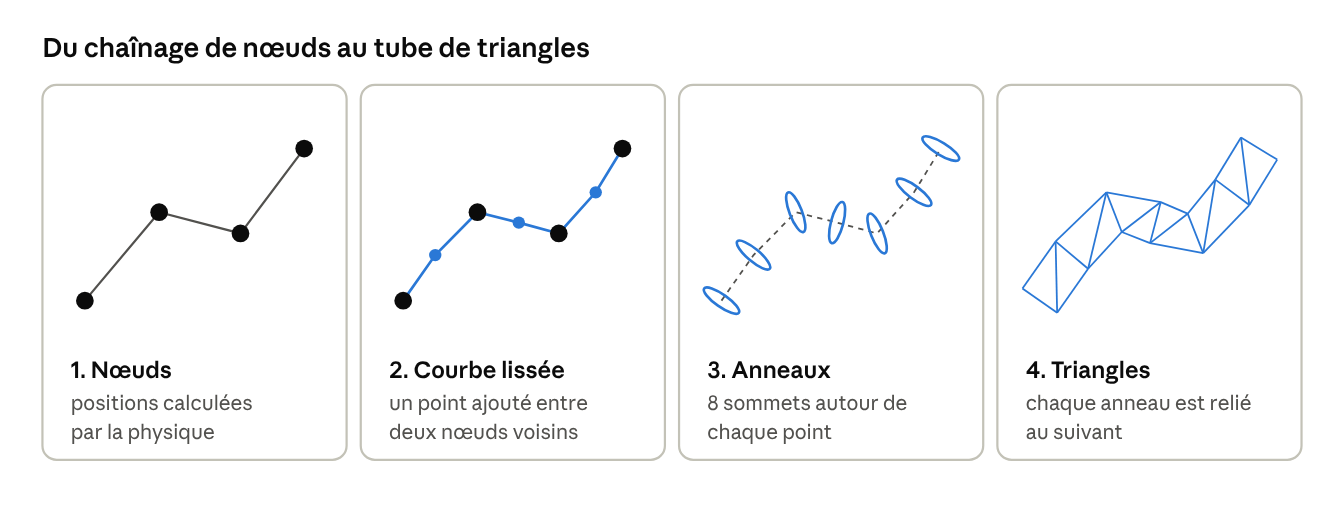
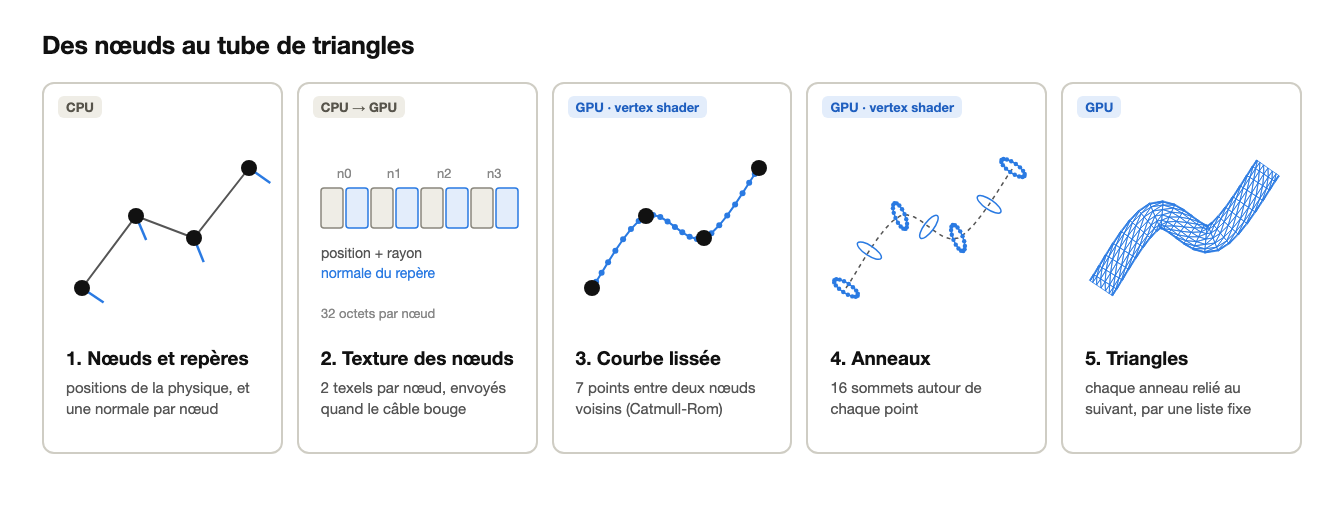
Docs : anatomie d'une frame, le tube des câbles calculé par le GPU
Le document décrit le rendu actuel des câbles : les repères des nœuds
sur le CPU, la texture des nœuds, le vertex shader (courbe, anneaux de
16 sommets), le tube allégé hors de l'image et les trois niveaux de
détail, l'injection `swept` et les matériaux substitués des passes.
Chiffres remesurés sur le niveau 4 (appels, triangles, chronologie).

Images : maillage en fil de fer refait, niveaux de détail (nouvelle),
schéma du tube refait (étapes CPU et GPU), « nœuds, matrices » dans la
vue d'ensemble.

diff --git a/docs/anatomie-d-une-frame.md b/docs/anatomie-d-une-frame.md
@@ -2,7 +2,7 @@
 
 ## Introduction
 
-Pour afficher une image, Brassage lit la souris, fait avancer la physique des câbles dans un Web Worker, reconstruit la géométrie des câbles qui ont bougé, puis demande à la carte graphique de dessiner la scène en plusieurs passes. Ce document décrit chacune de ces étapes, dans l'ordre où elles s'exécutent, avec les fichiers du dépôt qui les réalisent.
+Pour afficher une image, Brassage lit la souris, fait avancer la physique des câbles dans un Web Worker, envoie à la carte graphique les nœuds des câbles qui ont bougé, puis lui demande de dessiner la scène en plusieurs passes. Ce document décrit chacune de ces étapes, dans l'ordre où elles s'exécutent, avec les fichiers du dépôt qui les réalisent.
 
 Brassage est un jeu de rangement de câbles dans une baie réseau. Le rendu utilise [three.js](https://threejs.org/), une bibliothèque qui simplifie l'usage de WebGL. La physique des câbles est écrite pour le projet, dans `src/physics/cableSim.ts`, sans bibliothèque externe.
 
@@ -18,7 +18,7 @@ Dans Brassage, une frame se découpe en quatre étapes :
 
 1. **Entrées** : la position de la souris déplace la « main » qui tient un câble.
 2. **Physique** : le moteur calcule les nouvelles positions des câbles. Ce calcul tourne sur un autre fil d'exécution (un Web Worker), en parallèle du reste.
-3. **Préparation de la scène** : le processeur (le CPU) transforme les positions des câbles en triangles et envoie au GPU ce qui a changé.
+3. **Préparation de la scène** : le processeur (le CPU) envoie au GPU les positions des nœuds qui ont bougé ; le GPU en tire lui-même les triangles des câbles.
 4. **Rendu** : le GPU dessine la scène, puis applique une série de passes de post-traitement avant l'affichage.
 
 Le schéma ci-dessous montre qui fait quoi, et sur quel fil d'exécution.
@@ -356,7 +356,7 @@ La grosse pile dépasse le budget d'une frame : c'est précisément le cas que l
 
 ## Préparation de la scène
 
-Le GPU ne connaît ni les câbles ni les nœuds : il dessine des triangles à partir de tableaux de nombres stockés dans sa propre mémoire. Entre la physique et le dessin, le CPU convertit donc les positions des nœuds en triangles, place les connecteurs, et n'envoie au GPU que les données qui ont changé. Ce travail est fait par `src/render/cableView.ts` pour les câbles et `rackView.ts` pour la baie.
+Le GPU ne connaît ni les câbles ni les nœuds : il dessine des triangles à partir de tableaux de nombres stockés dans sa propre mémoire. Entre la physique et le dessin, le CPU envoie donc au GPU les positions des nœuds, place les connecteurs, et n'envoie que les données qui ont changé. Le *vertex shader* des câbles transforme ensuite les nœuds en triangles. Ce travail est fait par `src/render/cableView.ts` et `tube.ts` pour les câbles et `rackView.ts` pour la baie.
 
 ### Le graphe de scène
 
@@ -364,29 +364,47 @@ three.js organise ce qu'il faut dessiner en un arbre d'objets, comparable au DOM
 
 Dans un niveau, la scène contient la baie (`rackView.group`), les câbles (`cableView.group`), le guide qui montre la main, les lumières et un fond. Au moment des captures, cela faisait 83 meshes ordinaires et 10 meshes instanciés regroupant 266 instances.
 
-### Les câbles : un tube autour d'une courbe
+### Les câbles : un tube calculé par le GPU
 
-Tous les câbles d'un niveau sont dessinés par **un seul mesh**, dont les sommets sont rangés dans un seul grand tableau, câble après câble. Pour chaque câble qui a bougé, `buildTube()` :
+Tous les câbles d'un niveau sont dessinés par **un seul mesh**, dont les sommets sont rangés dans un seul grand tableau, câble après câble. Ce tableau ne change jamais. Un sommet ne porte pas sa position : il sait seulement sur quel tronçon de quel câble il se trouve, et à quelle place de son anneau. À chaque frame, le CPU envoie au GPU les nœuds des câbles qui ont bougé, et c'est le *vertex shader* (`src/render/tube.ts`) qui calcule où se trouve chaque sommet.
 
-1. **Lisse la chaîne de nœuds.** Entre deux nœuds, il ajoute un point intermédiaire sur une courbe de Catmull-Rom, qui passe par les nœuds et utilise leurs voisins pour s'incurver. Un câble de n nœuds donne 2(n − 1) + 1 points.
-2. **Calcule un repère en chaque point.** La tangente suit la courbe. La normale est celle du point précédent, projetée sur le plan perpendiculaire à la nouvelle tangente (transport parallèle). Recalculer la normale indépendamment en chaque point ferait tourner le tube sur lui-même et tordrait ses triangles.
-3. **Place un anneau de 8 sommets** autour de chaque point, au rayon du câble, avec pour chacun une normale qui pointe vers l'extérieur (utilisée pour l'éclairage).
+![Des nœuds au tube de triangles](frame/schema-tube.png)
 
-![buildTube() · de la physique aux triangles](frame/schema-tube.png)
+1. **Le CPU donne un repère à chaque nœud.** Pour placer un anneau autour du câble, il faut une direction perpendiculaire au câble, la *normale*. Celle d'un nœud est celle du nœud précédent, projetée sur le plan perpendiculaire à la nouvelle direction du câble (transport parallèle). Recalculer la normale indépendamment en chaque nœud ferait tourner le tube sur lui-même et tordrait ses triangles. Comme chaque normale dépend de la précédente, ce calcul se fait en séquence, sur le CPU, mais il ne coûte qu'un passage par nœud.
+2. **Il range les nœuds dans une texture.** Voir la section suivante.
+3. **Le vertex shader lisse la chaîne de nœuds.** Entre deux nœuds, il place 7 points sur une courbe de Catmull-Rom, qui passe par les nœuds et utilise leurs voisins pour s'incurver. Un câble de n nœuds donne 8(n − 1) + 1 anneaux. La direction du câble en un point est la dérivée de la courbe ; la normale est interpolée entre celles des deux nœuds voisins, puis redressée perpendiculairement à cette direction.
+4. **Il place l'anneau.** Chaque anneau a 16 sommets, au rayon du câble, chacun avec une normale qui pointe vers l'extérieur (utilisée pour l'éclairage).
+5. **Les triangles relient chaque anneau au suivant.** Leur liste est construite une fois, à la création du niveau.
 
-La liste des triangles, qui relie chaque anneau au suivant, ne change jamais : elle est construite une fois à la création du niveau. Seules les positions et les normales sont recalculées. Pour le niveau capturé : 10 568 sommets et 20 928 triangles pour l'ensemble des câbles.
+Ce dont le shader a besoin pour un sommet tient en trois nombres : l'indice du nœud où commence son tronçon plus la fraction du chemin vers le suivant (0, 1/8, 2/8…), et les indices du premier et du dernier nœud du câble. L'angle du sommet autour du câble se déduit de son numéro (`gl_VertexID`), puisque chaque anneau compte 16 sommets consécutifs. Ces trois nombres sont rangés dans l'attribut `normal` de la géométrie : sans attribut de ce nom, three.js conclurait que le maillage n'a pas de normales et l'éclairerait en facettes plates.
+
+Pour le niveau capturé : 83 920 sommets et 167 424 triangles pour l'ensemble des câbles.
 
 ![Maillage des câbles en fil de fer](frame/maillage.jpg)
 
-Les triangles des câbles, vus de très près. On distingue les anneaux de 8 sommets et les points intermédiaires ajoutés entre les nœuds. Le bout ouvert de chaque tube est caché par le connecteur.
+Les triangles des câbles, vus de très près : anneaux de 16 sommets, 8 anneaux entre deux nœuds. Les câbles du fond ont déjà moins de triangles (voir « Le coût des sommets » plus bas). Au centre, le bout ouvert d'un tube, caché en jeu par le connecteur.
 
-Un câble endormi n'est pas reconstruit. `update()` calcule une signature à partir de trois de ses nœuds et saute le câble si elle n'a pas changé.
+Un câble endormi n'est pas renvoyé. `update()` calcule une signature à partir de trois de ses nœuds et saute le câble si elle n'a pas changé.
 
-### N'envoyer au GPU que ce qui a changé
+### N'envoyer au GPU que les nœuds
 
-Les tableaux de sommets vivent en double : une copie en JavaScript (`Float32Array`) et une copie dans la mémoire du GPU (un *buffer*). Modifier la première ne change pas la seconde. Il faut marquer l'attribut `needsUpdate = true`, et three.js le recopie au prochain rendu.
+Les nœuds vivent en double : une copie en JavaScript (`Float32Array`) et une copie dans la mémoire du GPU, sous forme de texture (`TubeNodes`). Chaque nœud y occupe deux texels de quatre nombres : sa position et le rayon du câble, puis la normale de son repère. Un rayon nul cache le câble. Modifier la copie JavaScript ne change pas la texture : il faut la marquer `needsUpdate = true`, et three.js la recopie au prochain rendu.
 
-Recopier tout le tableau à chaque frame serait inutile quand un seul câble bouge. `cableView.ts` note le premier et le dernier sommet modifiés (`dirtyLo`, `dirtyHi`) et ne déclare que cette plage (`addUpdateRange`). three.js utilise alors l'appel WebGL `bufferSubData`, qui ne copie qu'une partie du buffer.
+Un nœud coûte 32 octets, quel que soit le nombre de sommets que le GPU en tire. La texture est recopiée en entier dès qu'un câble a bougé : 32 Ko pour les 667 nœuds du niveau capturé. Côté CPU, écrire les nœuds et leurs repères prend 1,3 ms par frame pour 1 200 câbles de 60 nœuds, tous en mouvement.
+
+### Le coût des sommets
+
+Les sommets ne coûtent presque rien au CPU, mais le GPU exécute le vertex shader pour chacun d'eux, dans chaque passe qui dessine les câbles : l'image, l'ombre, les normales des reflets, celles de l'occlusion ambiante et le masque des reflets. Un câble lointain ne fait pourtant que quelques pixels de large. Deux réglages évitent de dépenser ce travail là où il ne se voit pas.
+
+**Un tube allégé hors de l'image.** Seule l'image montre le contour et l'éclairage des câbles. Les quatre autres passes dessinent un sommet sur deux autour du câble et un anneau sur deux : une seconde liste de triangles, qui reprend les mêmes sommets, en référence quatre fois moins. `TubeMesh` choisit la liste avant chaque dessin (`onBeforeRender`, `onBeforeShadow`). Pour le niveau capturé, 41 856 triangles au lieu de 167 424 dans ces passes.
+
+**Un niveau de détail dans l'image.** Le vertex shader calcule le rayon du câble à l'écran, en pixels, à partir du premier nœud du tronçon. Sous 6 pixels, un sommet sur deux se replie sur son voisin, autour du câble et le long de lui ; sous 1,5 pixel, trois sur quatre. Les triangles repliés deviennent plats, et le GPU les élimine avant d'avoir un seul pixel à calculer. La liste des triangles ne change pas, donc le tube reste fermé : un sommet replié reste partagé par les mêmes triangles. Comme tous les sommets d'un tronçon lisent le même nœud pour décider, ils choisissent le même niveau.
+
+![Les trois niveaux de détail du tube](frame/niveaux-de-detail.jpg)
+
+La même vue avec le niveau de détail forcé, pour le rendre visible. De gauche à droite : 16 sommets par anneau et 8 anneaux d'un nœud au suivant, puis 8 et 4, puis 4 et 2. En jeu, les deux derniers ne servent que pour des câbles de moins de 6 et de 1,5 pixel de rayon, où leurs facettes ne se distinguent pas. Dans la vue par défaut du niveau capturé, un câble mesure environ 2,7 pixels de rayon : l'image en dessine donc la version 8 × 4.
+
+Sur l'écran d'accueil (5 baies remplies de câbles, environ 2 000 × 1 500 pixels), une frame prend 27 ms ; sans ces deux réglages, elle en prendrait 33.
 
 ### Les connecteurs : l'instanciation
 
@@ -394,7 +412,7 @@ Chaque câble a deux connecteurs, faits de quatre pièces : boîtier, loquet, ma
 
 Un **appel de dessin** (*draw call*) est l'ordre que le CPU envoie au GPU pour dessiner un objet : « dessine ce buffer avec ce programme et ces paramètres ». Chaque appel a un coût fixe côté CPU et pilote, quelle que soit la taille de l'objet. Mille petits objets coûtent bien plus cher qu'un gros objet de même nombre de triangles.
 
-Les connecteurs utilisent donc l'**instanciation** (`THREE.InstancedMesh`) : une seule géométrie de boîtier, dessinée en un seul appel autant de fois qu'il y a d'extrémités, chaque copie ayant sa propre matrice de position et sa propre couleur. `updateEnds()` calcule la matrice de chaque connecteur à partir des deux derniers nœuds du câble ; un connecteur branché pointe droit dans son port. Comme pour les tubes, seules les matrices qui ont changé sont renvoyées.
+Les connecteurs utilisent donc l'**instanciation** (`THREE.InstancedMesh`) : une seule géométrie de boîtier, dessinée en un seul appel autant de fois qu'il y a d'extrémités, chaque copie ayant sa propre matrice de position et sa propre couleur. `updateEnds()` calcule la matrice de chaque connecteur à partir des deux derniers nœuds du câble ; un connecteur branché pointe droit dans son port. Comme pour les nœuds des câbles, seules les matrices qui ont changé sont renvoyées.
 
 Pour les 13 câbles du niveau capturé, 26 extrémités × 4 pièces donneraient 104 appels de dessin sans instanciation. Avec, il en faut 8 : un par pièce et par type de connecteur (fibre ou cuivre).
 
@@ -429,17 +447,18 @@ Les voyants des équipements clignotent sans aucun calcul côté CPU. Chaque ins
 
 ### À retenir
 
-- Le CPU transforme les nœuds en un tube de triangles et n'envoie au GPU que les parties modifiées.
+- Le CPU n'envoie au GPU que les nœuds qui ont bougé ; le vertex shader en tire le tube de triangles.
+- Un câble n'a que les triangles que sa taille à l'écran justifie : un tube allégé hors de l'image, trois niveaux de détail dans l'image.
 - Moins d'appels de dessin, c'est moins de temps CPU : un seul mesh pour tous les câbles, des pièces fusionnées ou instanciées pour la baie.
 - Trois matrices (M, V, P) transforment une position 3D en position à l'écran.
 
 ## Le rendu de la scène sur le GPU
 
-Une fois les buffers à jour, `stage.render()` (`src/render/stage.ts`) lance le dessin. Pour chaque objet, le GPU exécute deux petits programmes, les shaders : l'un place les sommets à l'écran, l'autre calcule la couleur de chaque pixel en fonction des lumières et du matériau. Un rendu simple de la scène, sans post-traitement, coûte 85 appels de dessin et 190 874 triangles.
+Une fois les buffers à jour, `stage.render()` (`src/render/stage.ts`) lance le dessin. Pour chaque objet, le GPU exécute deux petits programmes, les shaders : l'un place les sommets à l'écran, l'autre calcule la couleur de chaque pixel en fonction des lumières et du matériau. Un rendu simple de la scène, sans post-traitement, coûte 89 appels de dessin et 505 938 triangles, dont 167 424 pour les câbles dans l'image et 41 856 dans leur ombre.
 
 ### Ce que fait le GPU pour un appel de dessin
 
-1. **Vertex shader.** Exécuté une fois par sommet, en parallèle. Il reçoit les attributs du sommet (position, normale, couleur…) et calcule sa position à l'écran avec les matrices P, V et M.
+1. **Vertex shader.** Exécuté une fois par sommet, en parallèle. Il reçoit les attributs du sommet (position, normale, couleur…) et calcule sa position à l'écran avec les matrices P, V et M. Pour les câbles, il calcule d'abord la position et la normale du sommet à partir des nœuds (voir « Les câbles : un tube calculé par le GPU »).
 2. **Rastérisation.** Le GPU détermine quels pixels chaque triangle recouvre. Chaque pixel couvert devient un *fragment*, et les valeurs des trois sommets sont interpolées pour lui.
 3. **Fragment shader.** Exécuté une fois par fragment, en parallèle. Il calcule la couleur : couleur de base, lumières, ombres, reflets.
 4. **Test de profondeur.** Le GPU garde pour chaque pixel la distance du fragment le plus proche déjà dessiné (le *depth buffer*). Un fragment plus lointain est jeté. C'est ce qui fait qu'un câble devant un port le cache, quel que soit l'ordre de dessin.
@@ -452,7 +471,7 @@ Les shaders sont écrits en GLSL, un langage proche du C. three.js les génère 
 
 Presque tout est dessiné avec `MeshStandardMaterial`, le matériau « physique » de three.js. Il décrit une surface par sa couleur, sa rugosité (`roughness`, de 0 pour un miroir à 1 pour une surface mate) et son caractère métallique (`metalness`). Son shader calcule la lumière réfléchie selon ces paramètres.
 
-Pour ajouter un comportement sans réécrire ce shader, le projet utilise `onBeforeCompile` : juste avant la compilation, three.js passe le code source GLSL à une fonction, qui le modifie par des remplacements de chaînes. three.js découpe son shader en blocs nommés (`#include <emissivemap_fragment>`, `#include <normal_fragment_maps>`…), ce qui donne des points d'insertion stables. Quatre extensions sont ainsi empilées :
+Pour ajouter un comportement sans réécrire ce shader, le projet utilise `onBeforeCompile` : juste avant la compilation, three.js passe le code source GLSL à une fonction, qui le modifie par des remplacements de chaînes. three.js découpe son shader en blocs nommés (`#include <emissivemap_fragment>`, `#include <normal_fragment_maps>`…), ce qui donne des points d'insertion stables. Cinq extensions sont ainsi empilées :
 
 | Fonction | Fichier | Code ajouté |
 | --- | --- | --- |
@@ -460,6 +479,7 @@ Pour ajouter un comportement sans réécrire ce shader, le projet utilise `onBef
 | `blinkable` | `leds.ts` | le clignotement des voyants à partir de l'horloge partagée ; une taille minimale de 3 pixels à l'écran |
 | `jacketed` | `jacket.ts` | la gaine des câbles vue de près (voir ci-dessous) |
 | `ledLit` | `ledGlow.ts` | la lumière des voyants sur les câbles, leurs connecteurs et les pièces de la baie (voir plus bas) |
+| `swept` | `tube.ts` | la position et la normale de chaque sommet des câbles, calculées à partir de la texture des nœuds |
 
 Voici la partie fragment de `tintable`, raccourcie. Elle ajoute une ligne juste après le bloc qui calcule la lueur du matériau :
 
@@ -473,6 +493,10 @@ material.onBeforeCompile = (shader) => {
 ```
 
 `vEmissiveTint` est une couleur fournie pour chaque sommet ; la ligne ajoutée l'additionne à la lueur du pixel. Mettre cette couleur à zéro ou à une teinte vive suffit à allumer ou éteindre la surbrillance d'un câble, sans changer de matériau.
+
+`swept` procède autrement. Il insère son calcul au tout début de la fonction `main` du vertex shader, puis deux lignes `#define position tubePos` et `#define normal tubeNormal`. Tout le code qui suit, celui de three.js comme celui des autres extensions, lit alors la position et la normale calculées sans savoir qu'elles ne viennent pas de la géométrie. Le même ajout fonctionne donc pour n'importe quel matériau.
+
+C'est nécessaire parce que les câbles ne sont pas toujours dessinés avec leur propre matériau. L'ombre utilise un matériau de profondeur ; les reflets et l'occlusion ambiante redessinent la scène avec un matériau de normales, et les reflets avec un matériau de masque. Ces matériaux ignorent la texture des nœuds. `TubeMesh` en fournit donc des copies qui la lisent, créées une fois pour chacun : pour l'ombre par `customDepthMaterial`, pour les autres en remplaçant à la volée le matériau que la passe impose.
 
 `customProgramCacheKey` donne à chaque variante un nom distinct. Sans lui, three.js réutiliserait le programme déjà compilé d'un matériau standard et ignorerait les modifications.
 
@@ -527,7 +551,7 @@ Quatre lectures de plus, de part et d'autre, donnent la pente de la carte, donc 
 
 ## Post-traitement et affichage final
 
-La scène n'est pas dessinée directement à l'écran. Elle est d'abord rendue dans une image intermédiaire, que cinq passes modifient tour à tour : reflets sur le sol, occlusion ambiante, halo des lumières, conversion pour l'écran, puis retouches finales. Cette chaîne est gérée par l'`EffectComposer` de three.js, configuré dans le constructeur de `Stage`. Avec toutes ses passes, une frame coûte 272 appels de dessin et environ 566 000 triangles, soit plus de trois fois le rendu simple de la scène.
+La scène n'est pas dessinée directement à l'écran. Elle est d'abord rendue dans une image intermédiaire, que cinq passes modifient tour à tour : reflets sur le sol, occlusion ambiante, halo des lumières, conversion pour l'écran, puis retouches finales. Cette chaîne est gérée par l'`EffectComposer` de three.js, configuré dans le constructeur de `Stage`. Avec toutes ses passes, une frame coûte 282 appels de dessin et environ 1 008 000 triangles, soit plus de trois fois les appels du rendu simple de la scène.
 
 ### Le principe d'une passe
 
@@ -604,15 +628,15 @@ Le tableau suit une frame de bout en bout, dans l'ordre d'exécution. La colonne
 | 4 | Demande de pas au Worker | principal → Worker | `threadedSim.ts`, `advance` | chaque frame qui a un pas | un message |
 | 5 | Collisions, 3 sous-pas × 6 itérations, sommeil | Worker | `cableSim.ts`, `step` | par pas, pendant les étapes 6 à 18 | 0,2 ms au repos ; 0,6 à 16 ms en mouvement selon la taille |
 | 6 | Réception des positions (frame précédente ou en cours) | Worker → principal | `threadedSim.ts`, `receive` | quand la réponse arrive | un tableau transféré, sans copie |
-| 7 | Reconstruction des tubes des câbles qui ont bougé | principal | `cableView.ts`, `update` | chaque frame | jusqu'à 10 568 sommets |
+| 7 | Repères et texture des nœuds des câbles qui ont bougé | principal | `cableView.ts`, `update` | chaque frame | jusqu'à 667 nœuds, 32 Ko envoyés |
 | 8 | Matrices des connecteurs | principal | `cableView.ts`, `updateEnds` | chaque frame | 26 extrémités × 4 pièces |
 | 9 | Mise à jour de la baie si un élément a changé | principal | `rackView.ts`, `syncItems` | si changement | — |
 | 10 | Score, voyants des ports, plan du HUD | principal | `world.ts`, `evaluate` | toutes les 0,4 s | — |
 | 11 | Amortissement de la caméra, horloges des voyants et du grain | principal | `stage.ts`, `render` | chaque frame | quelques nombres |
 | 12 | Carte de lumière des voyants | GPU | `ledGlow.ts`, `render` | chaque frame, par baie visible | 1 appel, 240 × 300 pixels et ses mipmaps |
 | 13 | Carte d'ombre de la lumière principale | GPU | three.js | chaque frame | 2048 × 2048 pixels |
-| 14 | Scène + images auxiliaires + reflets du sol | GPU | `SSRPass` | chaque frame | environ 200 des 272 appels, carte d'ombre comprise |
-| 15 | Occlusion ambiante | GPU | `GTAOPass` | chaque frame | 58 appels (passe de normales comprise) |
+| 14 | Scène + images auxiliaires + reflets du sol | GPU | `SSRPass` | chaque frame | 205 des 282 appels, carte d'ombre comprise |
+| 15 | Occlusion ambiante | GPU | `GTAOPass` | chaque frame | 60 appels (passe de normales comprise) |
 | 16 | Halo des lumières | GPU | `UnrealBloomPass` | chaque frame | 13 appels, 5 niveaux de flou |
 | 17 | Tone mapping et sRGB | GPU | `OutputPass` | chaque frame | 1 appel |
 | 18 | Vignettage, grain, teinte, aberration | GPU | `cinema.ts` | chaque frame | 1 appel |
@@ -622,7 +646,7 @@ Le tableau suit une frame de bout en bout, dans l'ordre d'exécution. La colonne
 Trois points ressortent de ce tableau.
 
 - **La physique et le rendu se chevauchent.** Pendant que le Worker calcule le pas suivant (étape 5), le fil principal prépare et lance le dessin des positions précédentes (étapes 7 à 18). Le décalage d'une frame au plus ne se voit pas à 60 images par seconde.
-- **Le CPU n'envoie au GPU que ce qui change.** Tubes des câbles éveillés, matrices des connecteurs qui ont bougé, quelques nombres pour les horloges. Le reste de la scène reste en mémoire GPU d'une frame à l'autre.
+- **Le CPU n'envoie au GPU que ce qui change.** Nœuds des câbles éveillés, matrices des connecteurs qui ont bougé, quelques nombres pour les horloges. Le reste de la scène reste en mémoire GPU d'une frame à l'autre.
 - **Les travaux lents sont espacés.** Score toutes les 0,4 s, interface HTML toutes les 250 ms, physique des câbles endormis jamais.
 
 ## Glossaire et pistes pour aller plus loin
@@ -638,6 +662,7 @@ Trois points ressortent de ce tableau.
 | HDR | Image dont les valeurs peuvent dépasser le blanc (1), stockée en nombres à virgule. |
 | Instanciation | Dessin d'une même géométrie plusieurs fois en un seul appel, chaque copie ayant sa matrice et sa couleur. |
 | Matrice M, V, P | Tableaux de 4 × 4 nombres qui placent un objet dans le monde, le monde devant la caméra, puis appliquent la perspective. |
+| Niveau de détail | Version simplifiée d'un objet, utilisée quand il est trop petit à l'écran pour que ses détails se voient. Les câbles en ont trois. |
 | MSAA | Calcul de la couverture des triangles en plusieurs points par pixel (4 ici), pour lisser les bords en escalier. |
 | Multiplicateur λ | Nombre associé à une contrainte, qui mémorise la force qu'elle fournit. Il rend les contraintes dures exactes. |
 | Nœud | Point pesant du modèle physique. Un câble est une chaîne de nœuds espacés de 2,5 cm. |
@@ -648,6 +673,7 @@ Trois points ressortent de ce tableau.
 | Rastérisation | Étape où le GPU détermine quels pixels chaque triangle recouvre. |
 | Render target | Image dans laquelle le GPU dessine au lieu de l'écran, et qu'un shader peut lire ensuite. |
 | Shader | Programme exécuté par le GPU : le vertex shader par sommet, le fragment shader par pixel. |
+| Texture | Image stockée dans la mémoire du GPU, qu'un shader peut lire. Elle peut contenir des couleurs ou, comme celle des nœuds, n'importe quels nombres. |
 | Shadow map | Texture de profondeur vue depuis une lumière, qui sert à savoir quels pixels sont à l'ombre. |
 | Sommeil | État d'un câble immobile : ses nœuds sont figés et ne sont plus calculés jusqu'à ce qu'on le touche. |
 | sRGB | Espace de couleur des écrans. Les calculs se font en valeurs linéaires, converties en sRGB à la fin. |
